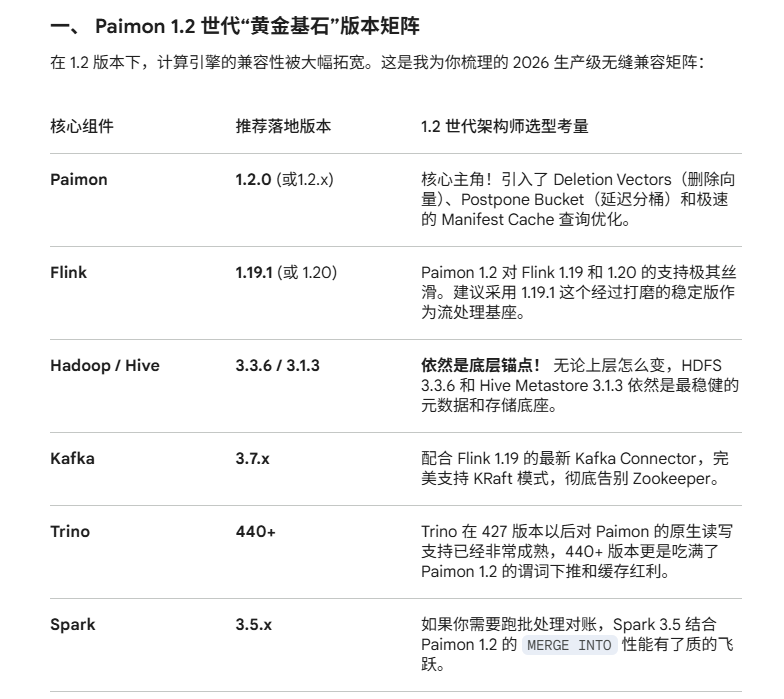
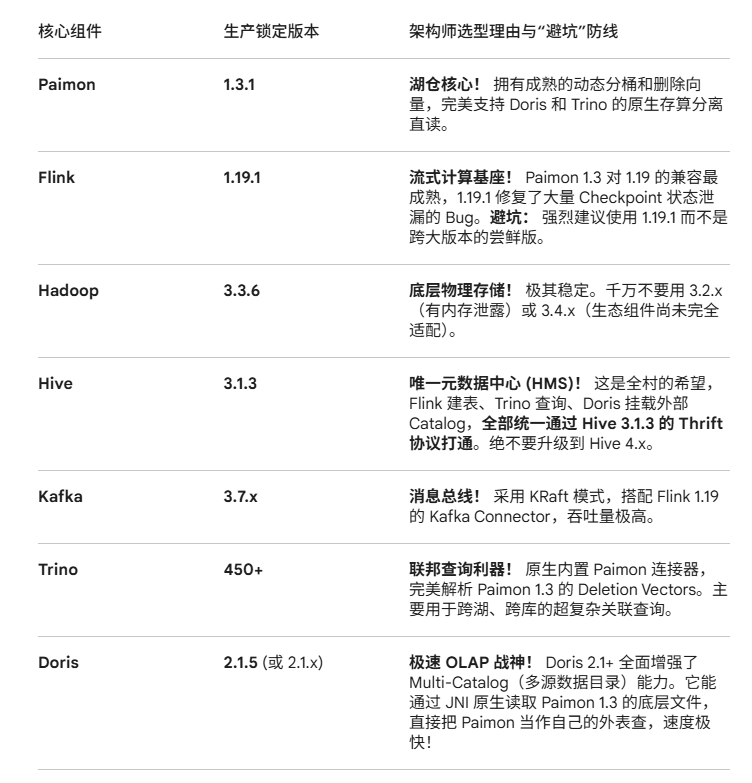
更新

diff --git a/README.md b/README.md
@@ -6,5 +6,24 @@
 落地方案框架推荐 Gemini3 pro
 ![img.png](img.png)
 
-step 1 
+实时入湖（Kafka -> Flink -> Paimon）：
+交易流水进入 Kafka，Flink 1.19 实时消费，利用 Paimon 1.3 的 bucket = -1 (动态分桶) 和 changelog-producer = lookup 写入底层 HDFS。
+
+统一注册（Paimon -> Hive Metastore）：
+Flink 在写入 Paimon 时，将表结构自动同步到 Hive Metastore (HMS 3.1.3)。这是打通全链路的唯一钥匙！
+
+“双剑合璧”的查询层（Trino + Doris）：
+内部深度分析用 Trino： 分析师要查 3 年前的冷数据，还要跨库关联 MySQL 里的历史维表，用 Trino 450 直连 HMS 查询 Paimon。
+
+高频实时看板用 Doris： 面向交易员的秒级监控大屏（QPS 可能高达上万）。
+在 Doris 里执行一条 CREATE CATALOG paimon_catalog PROPERTIES ("type"="paimon", "hive.metastore.uris"="thrift://hms:9083");，Doris 就能瞬间读取 Paimon 的数据，利用其极速的向量化计算引擎毫秒级出图。
+
+方案设计的AI建议：
+风险组件 / 防线,致命阻塞症状 (不可抗力),架构师排雷方案 (核心动作)
+1. Flink 依赖冲突(Hadoop Shade 机制),Flink 任务疯狂重启，抛出 NoSuchMethodError (通常是 Guava/Protobuf 打架)；或导致下游引擎 JVM 崩溃。,Flink 的 lib/ 目录下，绝对只保留官方的 flink-shaded-hadoop-3-uber.jar。严禁混入任何原生的 hadoop-common.jar 或第三方未经 Shade（遮蔽）的包。
+2. Doris 内存溢出(JNI 外表读取),Doris 挂载 Paimon 外表查询时，BE (Backend) 节点因 Java 堆外内存泄漏 (OOM) 直接宕机脱机。,部署 Doris 时，必须修改 BE 配置文件 be.conf。通过调整 JvmService 的 JAVA_OPTS 参数，强制为 JVM 预留 4GB - 8GB 的内存，专用于 Paimon 底层 Parquet/ORC 文件的解析。
+3. Trino 插件报错(类加载器污染),Trino 集群启动失败，或执行 SQL 时报错“找不到 Catalog”，发生严重的类加载器冲突。,Trino 450+ 已经原生内置了 Paimon 连接器。严禁画蛇添足地把 paimon-trino-*.jar 手动丢进 Trino 的 plugin 目录！只需在 etc/catalog/paimon.properties 中写明 connector.name=paimon 即可。
+
+
+5. step 1 
 模拟生成数据，在mysql中模拟规则数据， kafka中模拟交易数据。
